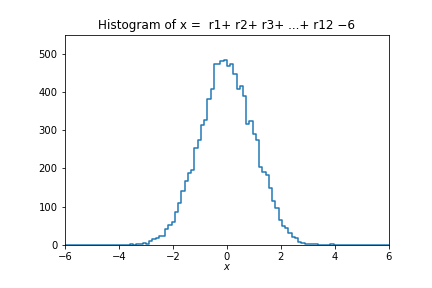
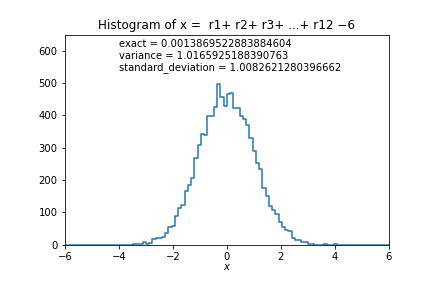
final submitting

diff --git a/Ex1(b).py b/Ex1(b).py
@@ -1,23 +1,24 @@
-# simpleMC.py -- simple Monte Carlo program to make histogram of uniformly
-# distributed random values and plot
-# G. Cowan, RHUL Physics, October 2019
-
 import matplotlib
 import matplotlib.pyplot as plt
 import numpy as np
+from scipy.stats import norm
 
 # generate data and store in numpy array, put into histogram
 
 numVal = 10000
 nBins = 100
-xMin = 0.
-xMax = 1.
+rMin = 0.
+rMax = 1.
 r = []
-# E_r = [] # exact values
-# V_r = [] # variance values
-# SD_r = [] # Standard Deviation
+r_exact = []
+r_variance = []
+r_standard_deviation = []
+
 for i in range(12):
-    r.append(np.random.uniform(xMin, xMax, numVal))
+    r.append(np.random.uniform(rMin, rMax, numVal))
+    r_exact.append(np.mean(r[i]))
+    r_variance.append(np.mean(r[i]))
+    r_standard_deviation.append(np.mean(r[i]))
 
 xData_1 = r[0] + r[1] - 1
 xData_2 = r[0] + r[1]+ r[2] + r[3] - 2
@@ -25,16 +26,20 @@ xData_3 = -6
 for i in range(12):
     xData_3 = xData_3 + r[i]
 exact_1 = np.mean(xData_1)
-exact_2 = np.mean(xData_2)
-exact_3 = np.mean(xData_3)
 variance_1 = np.var(xData_1)
-variance_2 = np.var(xData_2)
-variance_3 = np.var(xData_3)
+standard_deviation_1 = np.std(xData_1)
 
-print()
-xHist1, bin_edges1 = np.histogram(xData_1, bins=nBins, range=(xMin-1, xMax))
-xHist2, bin_edges2 = np.histogram(xData_2, bins=nBins, range=(xMin-2, xMax+1))
-xHist3, bin_edges3 = np.histogram(xData_3, bins=nBins, range=(xMin-6, xMax+5))
+exact_2 = np.mean(xData_2)
+variance_2 = np.var(xData_2)
+standard_deviation_2 = np.std(xData_2)
+
+exact_3 = np.mean(xData_3)
+variance_3 = np.var(xData_3)
+standard_deviation_3 = np.std(xData_3)
+
+xHist1, bin_edges1 = np.histogram(xData_1, bins=nBins, range=(2*rMin-1, 2*rMax-1))
+xHist2, bin_edges2 = np.histogram(xData_2, bins=nBins, range=(4*rMin-2, 4*rMax-2))
+xHist3, bin_edges3 = np.histogram(xData_3, bins=nBins, range=(12*rMin-6, 12*rMax-6))
 # make plot and save in file
 
 # for xData_1 the plot as follow
@@ -45,15 +50,19 @@ fig1, ax1= plt.subplots(1,1)
 plt.gcf().subplots_adjust(bottom=0.15)
 plt.gcf().subplots_adjust(left=0.15)
 plt.title('Histogram of x = r1+ r2− 1')
-ax1.set_xlim((xMin-1, xMax))
+ax1.set_xlim((2*rMin-1, 2*rMax-1))
 ax1.set_ylim((0., 300))
 plt.xlabel(r'$x$', labelpad=0)
 plt.plot(xPlot1, yPlot1)
-plt.plot(exact_1, '-r', label='exact values')
-plt.plot(variance_1, '-k', label='variance values')
+# output information
+plt.text(-0.75, 250, f'exact = {exact_1}\nvariance = {variance_1}\nstandard_deviation = {standard_deviation_1}')
 fig1 = plt.gcf()
 plt.show()
 fig1.savefig("uniformHist1.png")
+print(f'E[r1]+E[r2]-1 = {r_exact[0] + r_exact[1] - 1}')
+print(f'E[r1+r2-1] = {exact_1}')
+print(f'V[r1]+V[r2] = {r_variance[0] + r_variance[1]}')
+print(f'V[r1 + r2] = {variance_1}')
 
 # for xData_2 the plot as follow
 binLo2, binHi2 = bin_edges2[:-1], bin_edges2[1:]
@@ -63,15 +72,19 @@ fig2, ax2= plt.subplots(1,1)
 plt.gcf().subplots_adjust(bottom=0.15)
 plt.gcf().subplots_adjust(left=0.15)
 plt.title('Histogram of x =  r1+ r2+ r3+ r4− 2')
-ax2.set_xlim((xMin-2, xMax+1))
-ax2.set_ylim((0., 350))
+ax2.set_xlim((4*rMin-2, 4*rMax-2))
+ax2.set_ylim((0., 400))
 plt.xlabel(r'$x$', labelpad=0)
 plt.plot(xPlot2, yPlot2)
-plt.plot(exact_2, '-r', label='exact values')
-plt.plot(variance_2, '-k', label='variance values')
+# output information
+plt.text(-1.50, 320, f'exact = {exact_2}\nvariance = {variance_2}\nstandard_deviation = {standard_deviation_2}')
 fig2 = plt.gcf()
 plt.show()
 fig2.savefig("uniformHist2.png")
+print(f'E[r1]+E[r2]+E[r3]+E[r4]-2 = {r_exact[0] + r_exact[1] + r_exact[2] + r_exact[3] -2}')
+print(f'E[r1+r2+r3+r4-2] = {exact_2}')
+print(f'V[r1]+V[r2]+V[r3]+V[r4] = {r_variance[0] + r_variance[1] + r_variance[2] + r_variance[3]}')
+print(f'V[r1+r2+r3+r4] = {variance_2}')
 
 # for xData_3 the plot as follow
 binLo3, binHi3 = bin_edges3[:-1], bin_edges3[1:]
@@ -81,12 +94,16 @@ fig3, ax3= plt.subplots(1,1)
 plt.gcf().subplots_adjust(bottom=0.15)
 plt.gcf().subplots_adjust(left=0.15)
 plt.title('Histogram of x =  r1+ r2+ r3+ ...+ r12 −6')
-ax3.set_xlim((xMin-6, xMax+5))
-ax3.set_ylim((0., 550))
+ax3.set_xlim((12*rMin-6, 12*rMax-6))
+ax3.set_ylim((0., 650))
 plt.xlabel(r'$x$', labelpad=0)
 plt.plot(xPlot3, yPlot3)
-plt.plot(exact_3, '-r', label='exact values')
-plt.plot(variance_3, '-k', label='variance values')
+# output information
+plt.text(-4.0, 540, f'exact = {exact_3}\nvariance = {variance_3}\nstandard_deviation = {standard_deviation_3}')
 fig3 = plt.gcf()
 plt.show()
 fig3.savefig("uniformHist3.png")
+print(f'E[r1]+E[r2]+....E[r12]-6 = {sum(r_exact) - 6}')
+print(f'E[r1+r2+...r12-6] = {exact_3}')
+print(f'V[r1]+V[r2]+...+V[12] = {sum(r_variance)}')
+print(f'V[r1+r2+...+r12] = {variance_3}')

diff --git a/Ex1(a).py b/Ex1(a).py
@@ -1,7 +1,3 @@
-# simpleMC.py -- simple Monte Carlo program to make histogram of uniformly
-# distributed random values and plot
-# G. Cowan, RHUL Physics, October 2019
-
 import matplotlib
 import matplotlib.pyplot as plt
 import numpy as np
@@ -10,11 +6,11 @@ import numpy as np
 
 numVal = 10000
 nBins = 100
-xMin = 0.
-xMax = 1.
+rMin = 0.
+rMax = 1.
 r = []
 for i in range(12):
-    r.append(np.random.uniform(xMin, xMax, numVal))
+    r.append(np.random.uniform(rMin, rMax, numVal))
 
 xData_1 = r[0] + r[1] - 1
 xData_2 = r[0] + r[1]+ r[2] + r[3] - 2
@@ -22,9 +18,9 @@ xData_3 = -6
 for i in range(12):
     xData_3 = xData_3 + r[i]
 
-xHist1, bin_edges1 = np.histogram(xData_1, bins=nBins, range=(xMin-1, xMax))
-xHist2, bin_edges2 = np.histogram(xData_2, bins=nBins, range=(xMin-2, xMax+1))
-xHist3, bin_edges3 = np.histogram(xData_3, bins=nBins, range=(xMin-6, xMax+5))
+xHist1, bin_edges1 = np.histogram(xData_1, bins=nBins, range=(2*rMin-1, 2*rMax-1))
+xHist2, bin_edges2 = np.histogram(xData_2, bins=nBins, range=(4*rMin-2, 4*rMax-2))
+xHist3, bin_edges3 = np.histogram(xData_3, bins=nBins, range=(12*rMin-6, 12*rMax-6))
 # make plot and save in file
 
 # for xData_1 the plot as follow
@@ -35,7 +31,7 @@ fig1, ax1= plt.subplots(1,1)
 plt.gcf().subplots_adjust(bottom=0.15)
 plt.gcf().subplots_adjust(left=0.15)
 plt.title('Histogram of x = r1+ r2− 1')
-ax1.set_xlim((xMin-1, xMax))
+ax1.set_xlim((2*rMin-1, 2*rMax-1))
 ax1.set_ylim((0., 300))
 plt.xlabel(r'$x$', labelpad=0)
 plt.plot(xPlot1, yPlot1)
@@ -51,7 +47,7 @@ fig2, ax2= plt.subplots(1,1)
 plt.gcf().subplots_adjust(bottom=0.15)
 plt.gcf().subplots_adjust(left=0.15)
 plt.title('Histogram of x =  r1+ r2+ r3+ r4− 2')
-ax2.set_xlim((xMin-2, xMax+1))
+ax2.set_xlim((4*rMin-2, 4*rMax-2))
 ax2.set_ylim((0., 350))
 plt.xlabel(r'$x$', labelpad=0)
 plt.plot(xPlot2, yPlot2)
@@ -67,7 +63,7 @@ fig3, ax3= plt.subplots(1,1)
 plt.gcf().subplots_adjust(bottom=0.15)
 plt.gcf().subplots_adjust(left=0.15)
 plt.title('Histogram of x =  r1+ r2+ r3+ ...+ r12 −6')
-ax3.set_xlim((xMin-6, xMax+5))
+ax3.set_xlim((12*rMin-6, 12*rMax-6))
 ax3.set_ylim((0., 550))
 plt.xlabel(r'$x$', labelpad=0)
 plt.plot(xPlot3, yPlot3)

diff --git a/Ex2(b)_2.py b/Ex2(b)_2.py
@@ -1,0 +1,42 @@
+import matplotlib
+import matplotlib.pyplot as plt
+import numpy as np
+
+numVal = 10000
+nBins = 100
+rMin = 0.
+rMax = 1.
+xMin = 0.
+xMax = 1.
+
+# use
+r = np.random.uniform(rMin, rMax, numVal)
+r_gauss=1/(np.sqrt(2*np.pi)*1)*np.exp(-np.power((r-0),2)/(2*1**2))
+k=1
+u=np.random.uniform(0,k*r_gauss)
+
+xData=[]
+for i in range(numVal):
+    a=2*r[i]
+    if a>u[i]:
+        xData.append(r[i])
+
+xHist1, bin_edges1 = np.histogram(xData, bins=nBins, range=(xMin, xMax))
+
+# make plot and save in file
+
+# for xData_1 the plot as follow
+binLo1, binHi1 = bin_edges1[:-1], bin_edges1[1:]
+xPlot1 = np.array([binLo1, binHi1]).T.flatten()
+yPlot1 = np.array([xHist1, xHist1]).T.flatten()
+fig1, ax1= plt.subplots(1,1)
+plt.gcf().subplots_adjust(bottom=0.15)
+plt.gcf().subplots_adjust(left=0.15)
+plt.title('Histogram of x = sqrt(r)')
+ax1.set_xlim((xMin, xMax))
+ax1.set_ylim((0,200))
+plt.xlabel(r'$x$', labelpad=0)
+plt.plot(xPlot1, yPlot1)
+fig1 = plt.gcf()
+plt.show()
+fig1.savefig("uniformHist2_2x.png")

diff --git a/Ex2(b)_1.py b/Ex2(b)_1.py
@@ -1,0 +1,38 @@
+import matplotlib
+import matplotlib.pyplot as plt
+import numpy as np
+
+numVal = 10000
+nBins = 100
+rMin = 0.
+rMax = 1.
+
+xData=[]
+# generate 2 variables.
+r1 = np.random.uniform(rMin, rMax, numVal) # x (0,1)
+r2 = np.random.uniform(rMin, rMax*2, numVal) # y=2x (0,2)
+
+# reject the point(x,y) if PDF(x) < y.
+for i in range(numVal):
+    if r1[i]*2 > r2[i]:
+        xData.append(r1[i])
+
+xHist1, bin_edges1 = np.histogram(xData, bins=nBins, range=(rMin, rMax))
+
+# make plot and save in file
+
+# for xData_1 the plot as follow
+binLo1, binHi1 = bin_edges1[:-1], bin_edges1[1:]
+xPlot1 = np.array([binLo1, binHi1]).T.flatten()
+yPlot1 = np.array([xHist1, xHist1]).T.flatten()
+fig1, ax1= plt.subplots(1,1)
+plt.gcf().subplots_adjust(bottom=0.15)
+plt.gcf().subplots_adjust(left=0.15)
+plt.title('Histogram of x = sqrt(r)')
+ax1.set_xlim((rMin, rMax))
+ax1.set_ylim((0,200))  
+plt.xlabel(r'$x$', labelpad=0)
+plt.plot(xPlot1, yPlot1)
+fig1 = plt.gcf()
+plt.show()
+fig1.savefig("uniformHist2_2x.png")

diff --git a/EX2(a).py b/EX2(a).py
@@ -1,0 +1,30 @@
+import matplotlib
+import matplotlib.pyplot as plt
+import numpy as np
+
+numVal = 10000
+nBins = 100
+rMin = 0.
+rMax = 1.
+r = np.random.uniform(rMin, rMax, numVal)
+# cdf = x^2 inverse_cdf x = √r
+xData_1 = np.sqrt(r)
+xHist1, bin_edges1 = np.histogram(xData_1, bins=nBins, range=(rMin,rMax))
+
+# make plot and save in file
+
+# for xData_1 the plot as follow
+binLo1, binHi1 = bin_edges1[:-1], bin_edges1[1:]
+xPlot1 = np.array([binLo1, binHi1]).T.flatten()
+yPlot1 = np.array([xHist1, xHist1]).T.flatten()
+fig1, ax1= plt.subplots(1,1)
+plt.gcf().subplots_adjust(bottom=0.15)
+plt.gcf().subplots_adjust(left=0.15)
+plt.title('Histogram of x = sqrt(r)')
+ax1.set_xlim((rMin,rMax))
+ax1.set_ylim((0,300))
+plt.xlabel(r'$x$', labelpad=0)
+plt.plot(xPlot1, yPlot1)
+fig1 = plt.gcf()
+plt.show()
+fig1.savefig("uniformHist1_2x.png")
